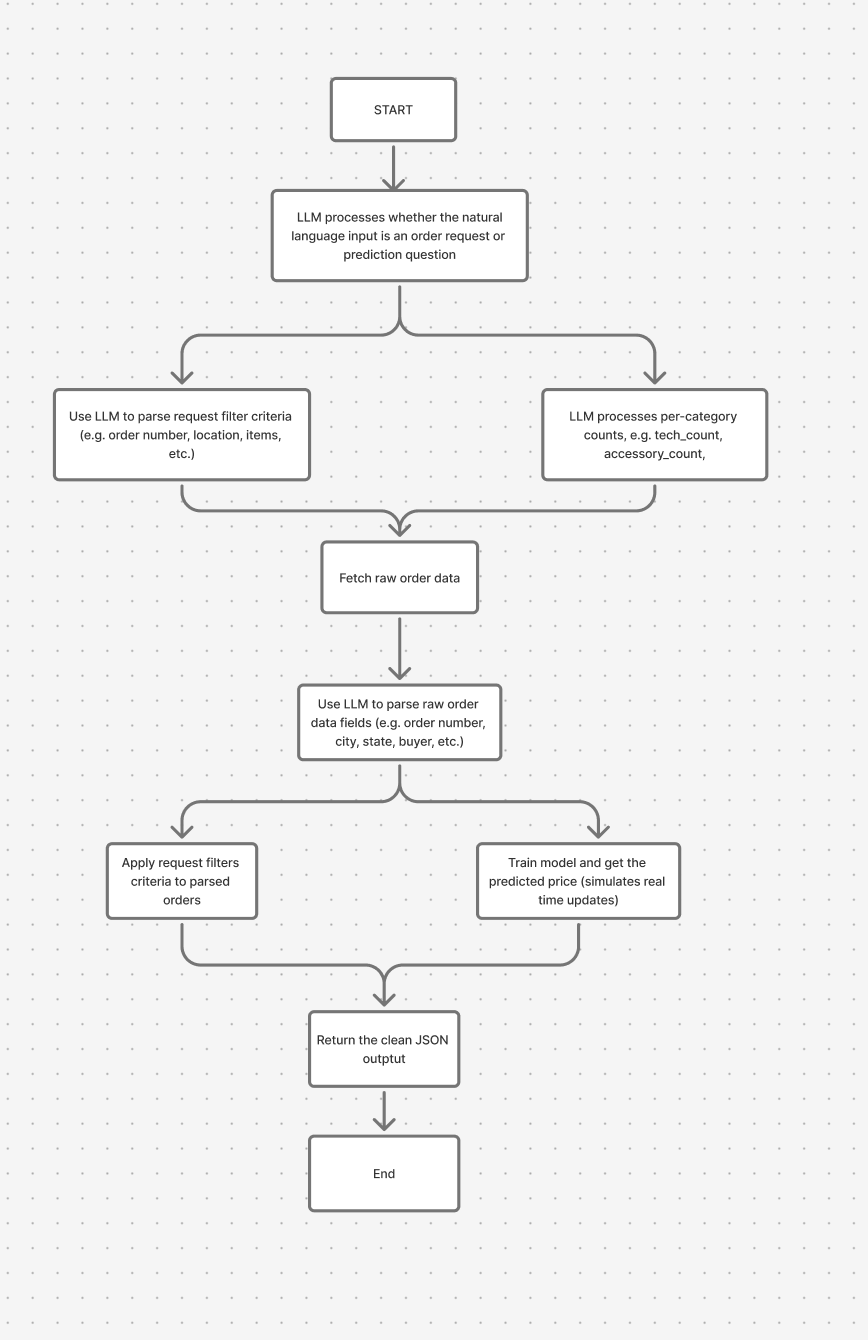
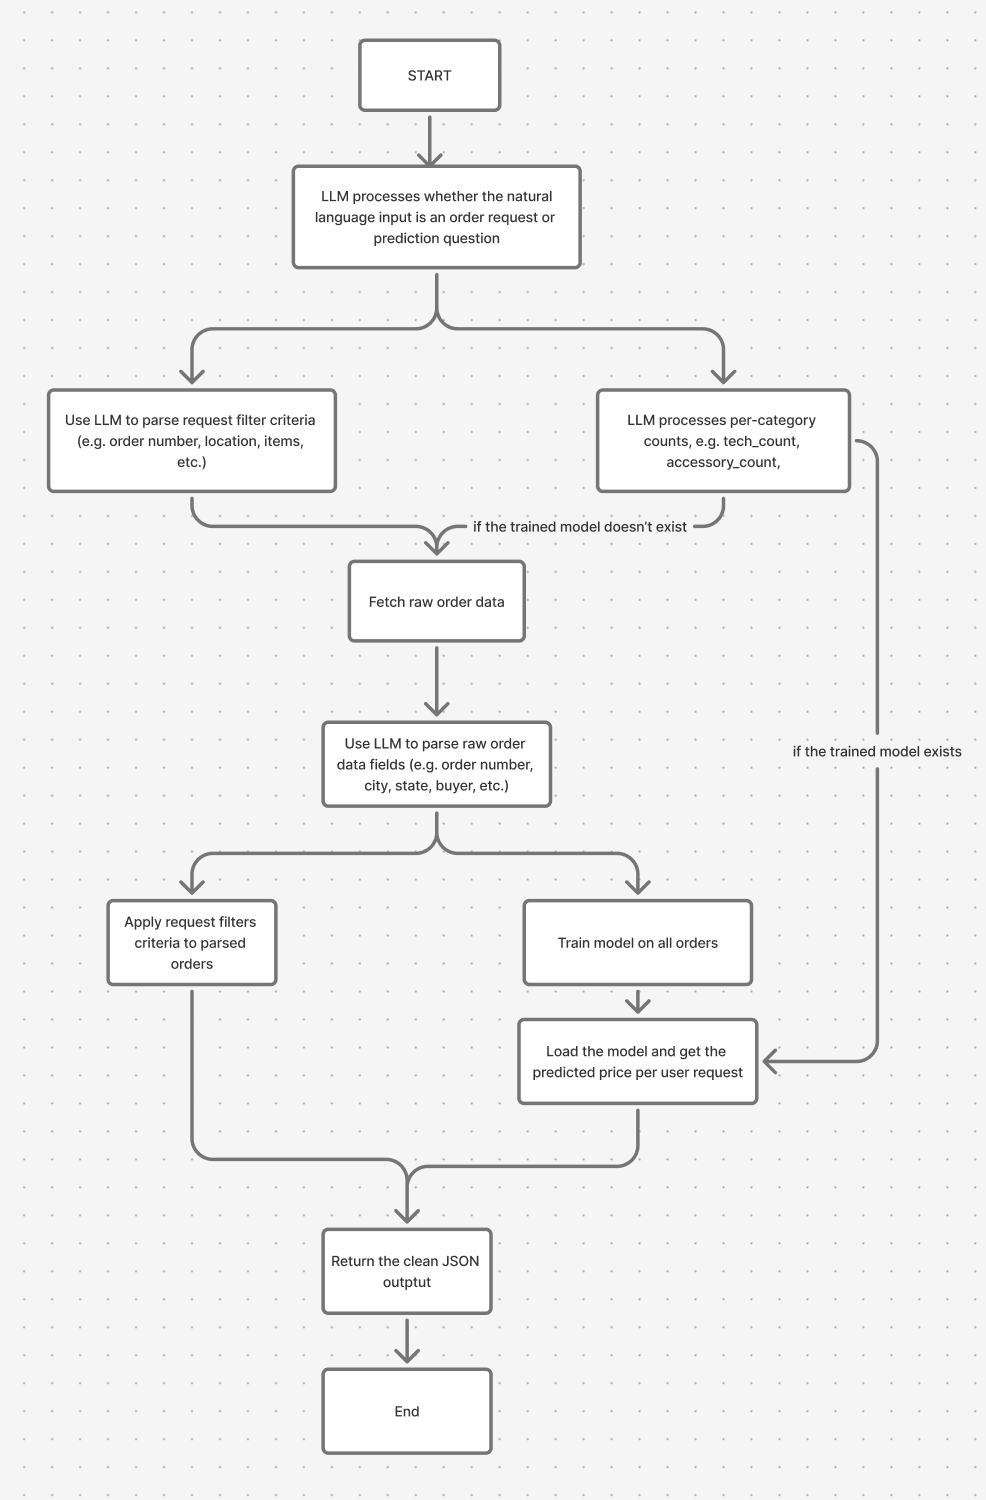
updarted architecture, requirements, and port number

Changed region(s): [[0.0311, 0.0, 0.9643, 0.9179], [0.3111, 0.9179, 0.4977, 0.9791], [0.3422, 0.0306, 0.3733, 0.0612]]

diff --git a/dummy_customer_api.py b/dummy_customer_api.py
@@ -139,4 +139,4 @@ def get_order_by_id(order_id):
 
 
 if __name__ == "__main__":
-    app.run(host="0.0.0.0", port=5001, debug=True)
+    app.run(host="0.0.0.0", port=5002, debug=True)
